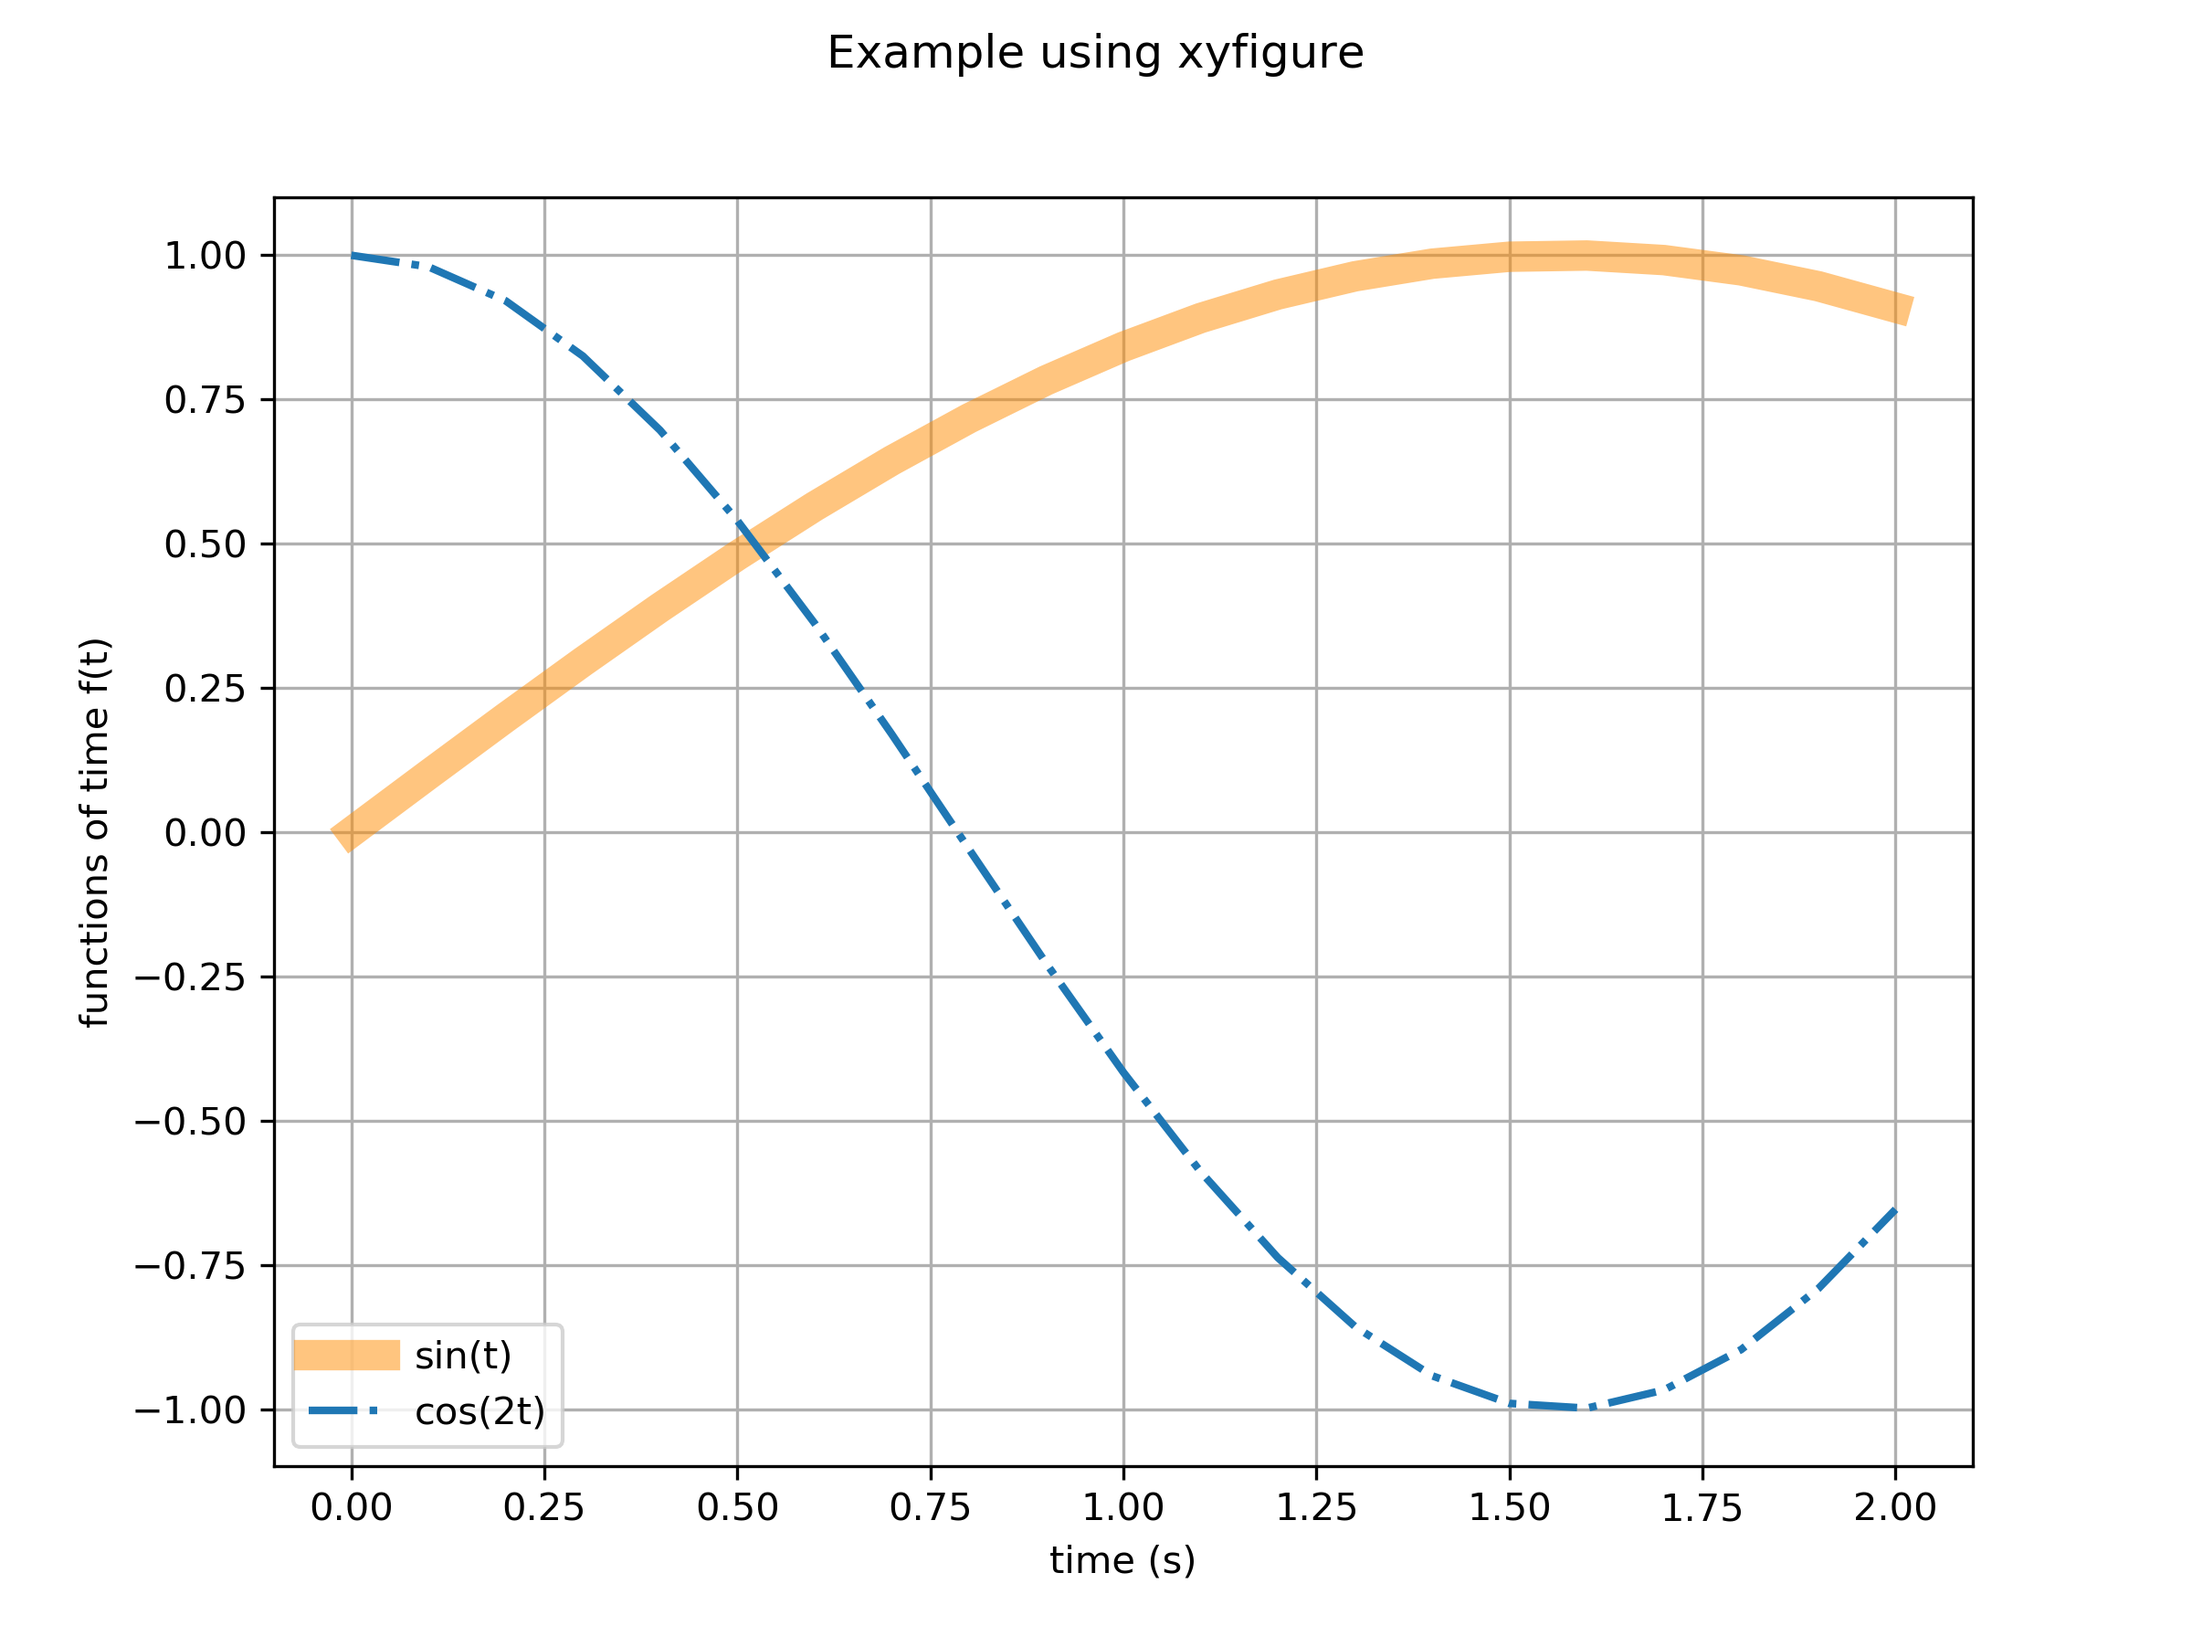
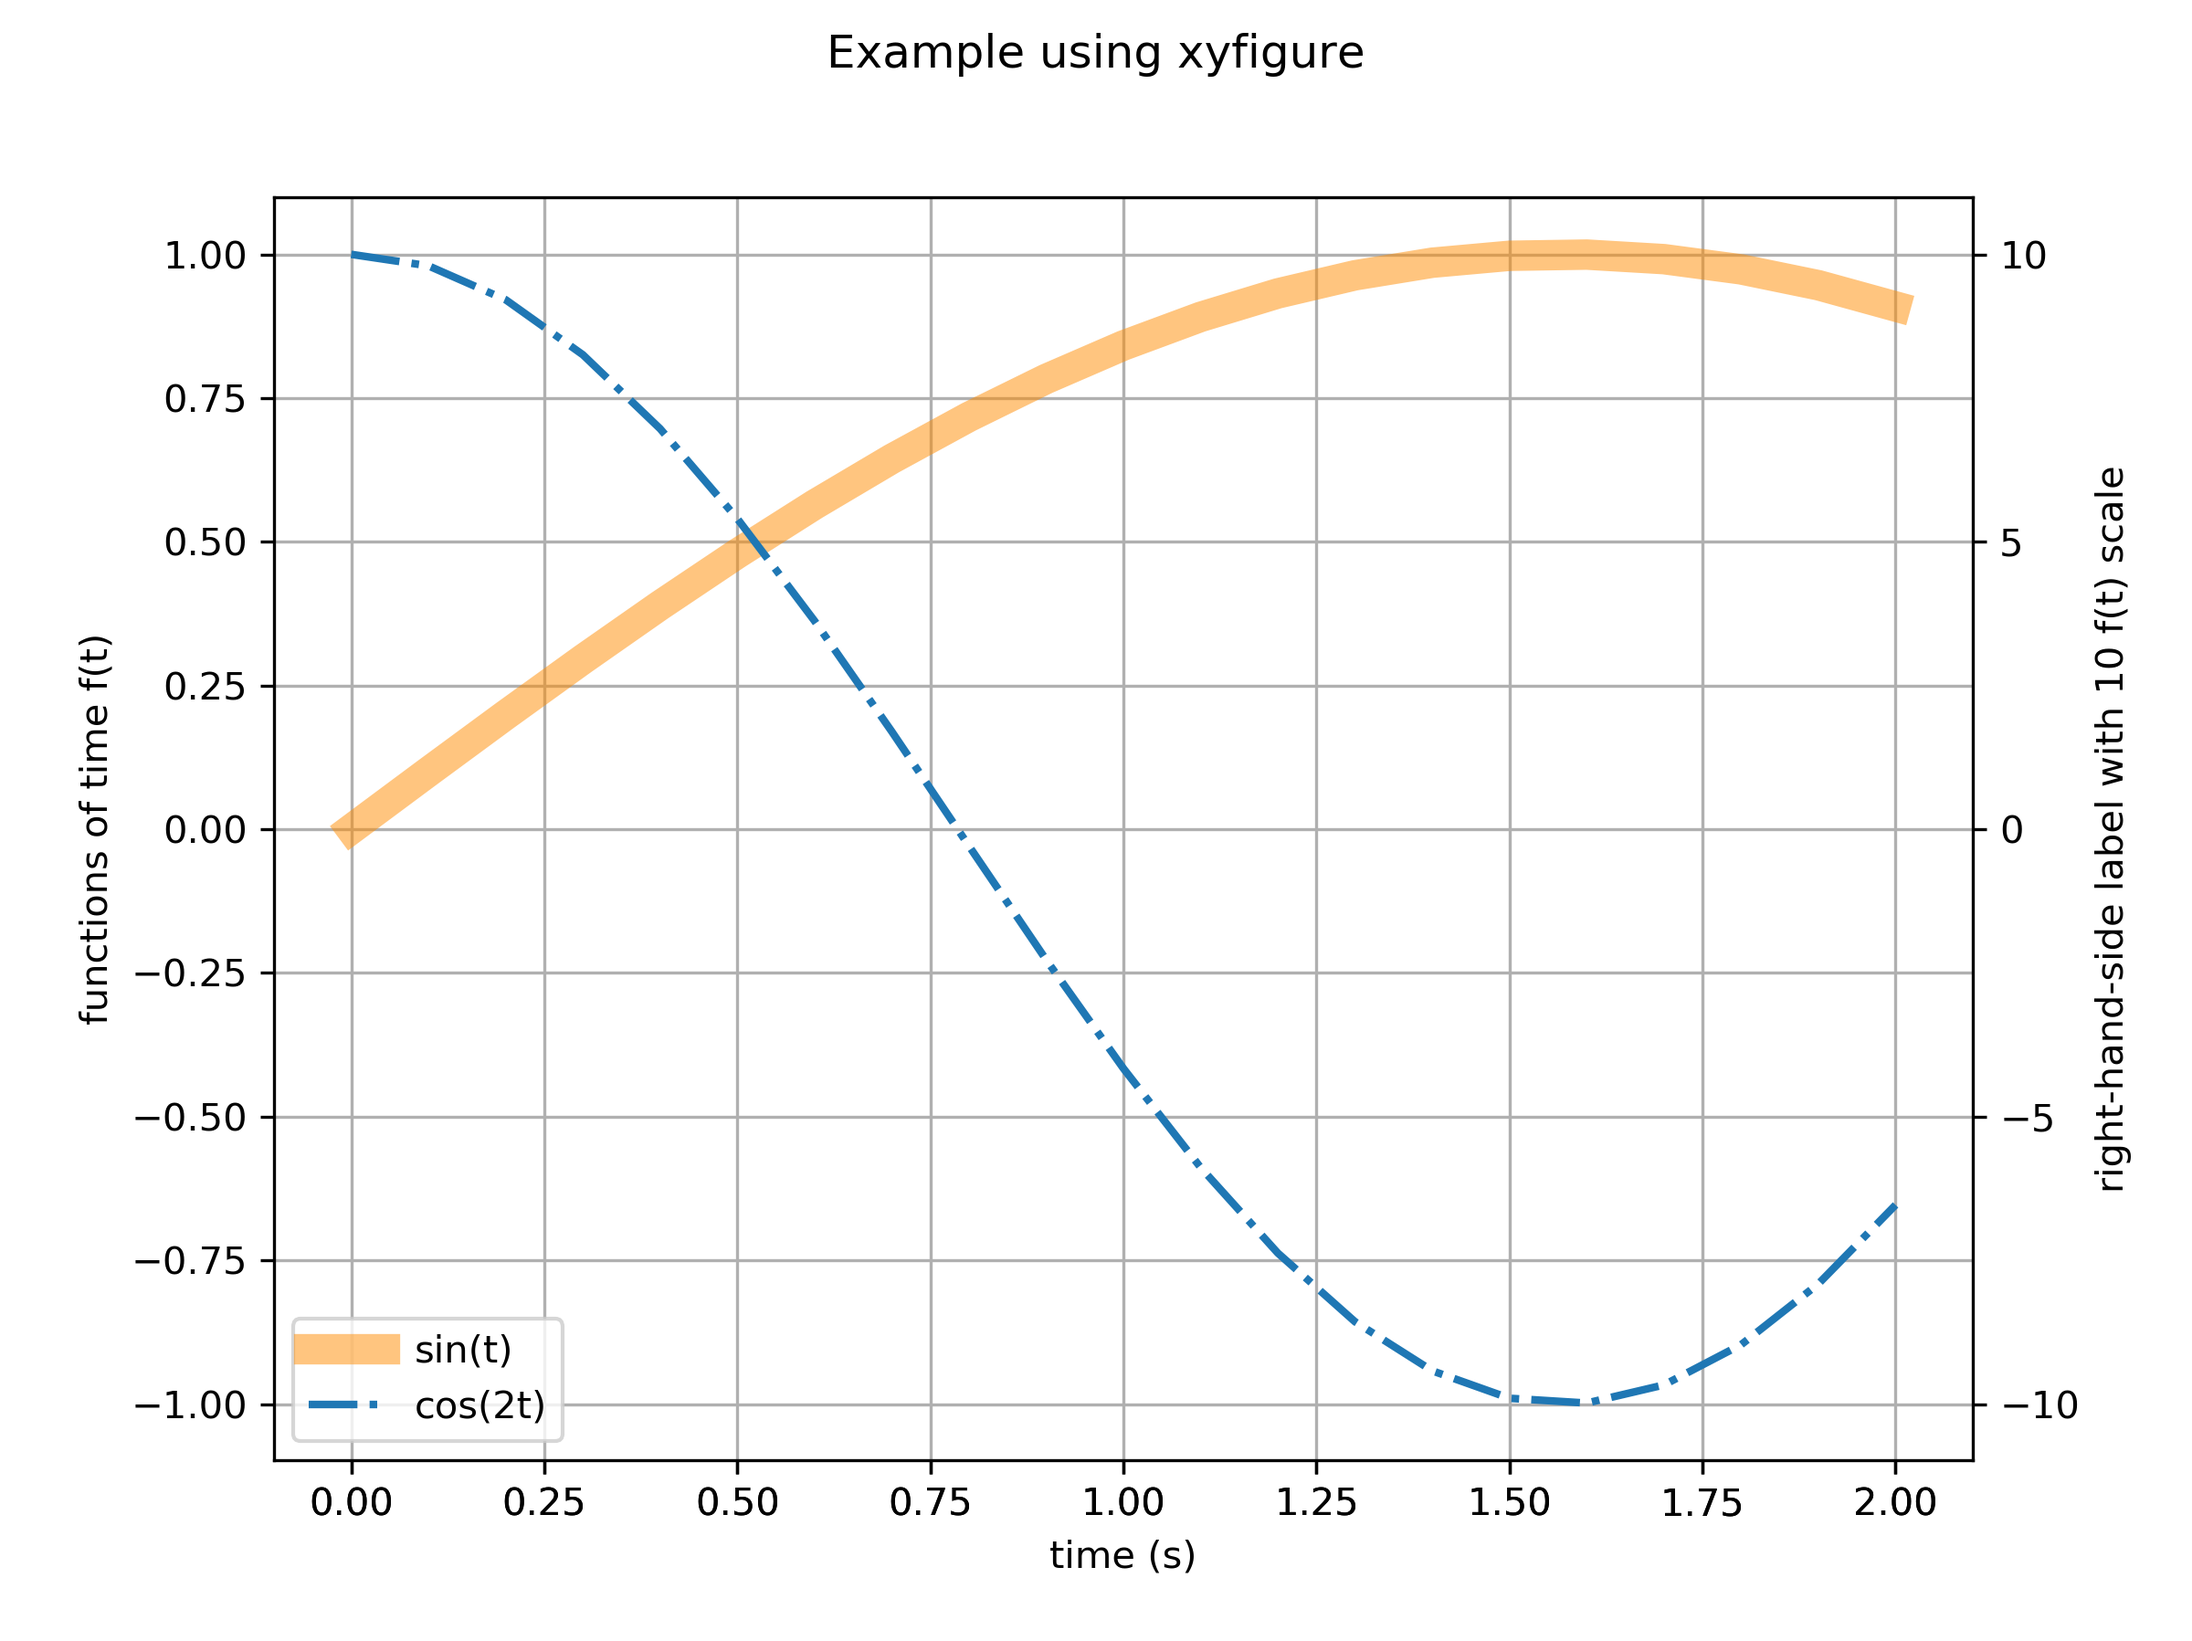
fix typos, add rhs to example

diff --git a/xyfigure/README.md b/xyfigure/README.md
@@ -18,6 +18,6 @@ The resulting figure, `figure_exmaple.png`,
 
 ![figure_example](../io/xyfigure_example/figure_example.png)
 
-will result, written to the `~/sibl/io/xyfigure/example/` folder.
+will result, written to the `~/sibl/io/xyfigure_example/` folder.
 
 For more information on the variations that are possible for formatting, see the [XYfigure_defaults.json](XYFigure_defaults.json) file.
